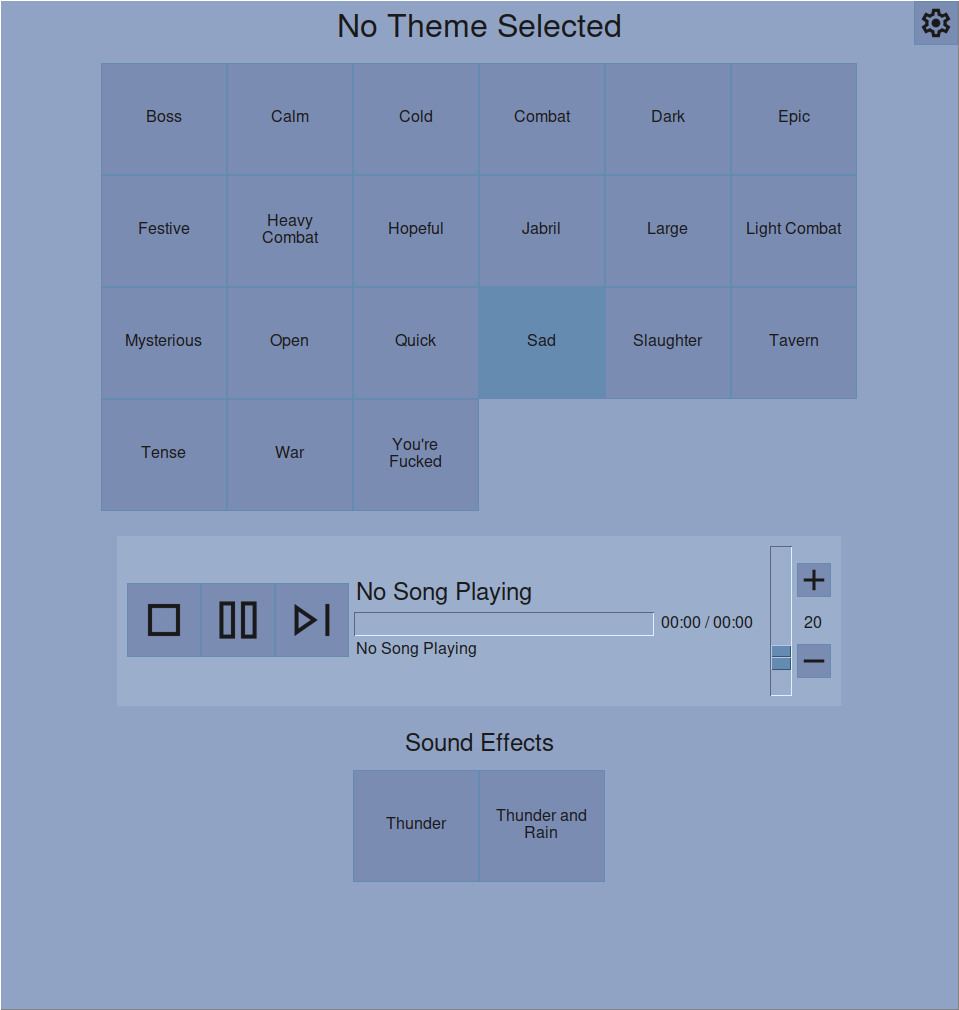
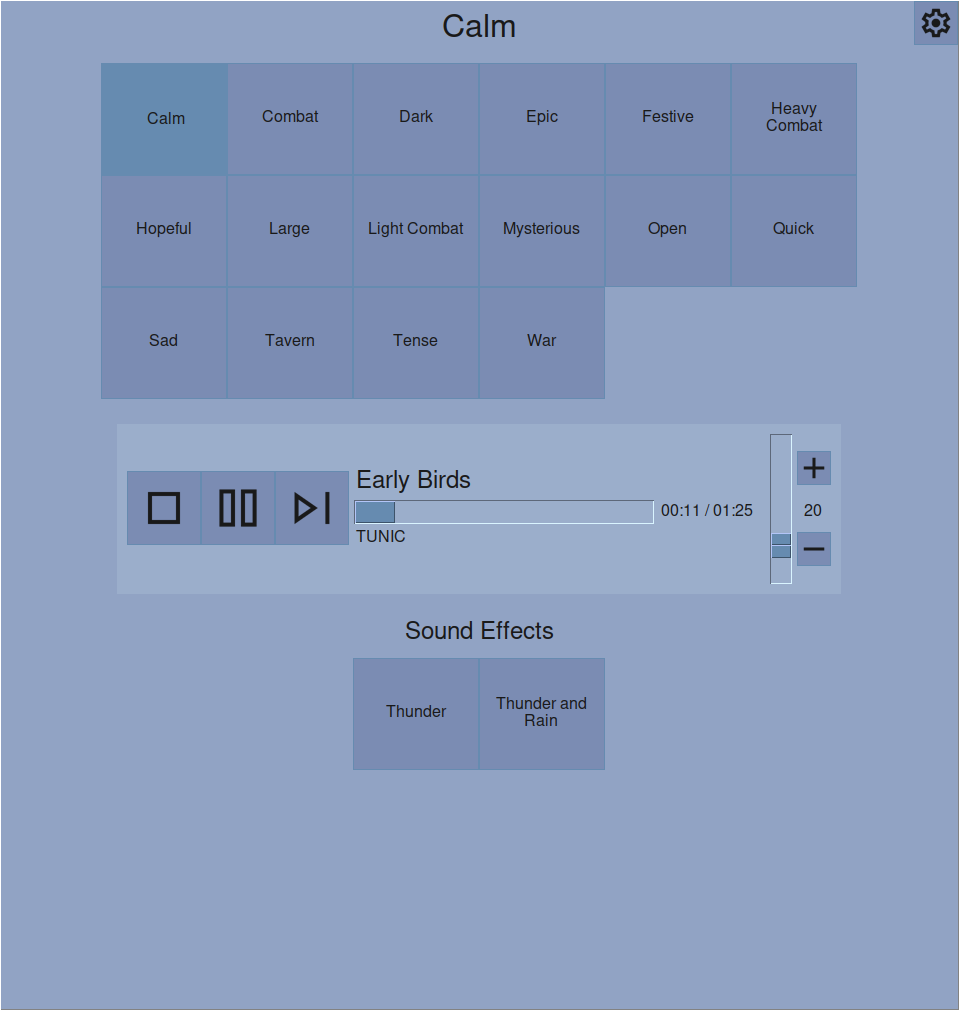
Fixed small bug on path removal

diff --git a/tabs/paths_tab.py b/tabs/paths_tab.py
@@ -197,7 +197,6 @@ class PathsTab(Tab):
             self.settings_manager.music_paths[:index]
             + self.settings_manager.music_paths[index + 1 :]
         )
-
         self.__destroy_list()
         self.__create_list()
 
@@ -208,6 +207,9 @@ class PathsTab(Tab):
             self.settings_manager.music_paths
         ):
             self.next_page_button.config(state="disabled")
+
+        self.tab_manager.update("main")
+        self.tab_manager.update("themes")
 
     def __destroy_list(self):
         for path in self.paths:

diff --git a/docs/ROADMAP.md b/docs/ROADMAP.md
@@ -20,7 +20,7 @@
   - [x] UI Scaling for elemente
   - [x] Font Size
 - [x] TKFileBrowser crashes the App because of unknown image paths
-- [ ] Final Bug Fixes
+- [x] Final Bug Fixes
   - [x] Main Page directory text overflowing
   - [x] Weird scaling and overflow issues in the path tabs, when chainging ui scale and font size
 